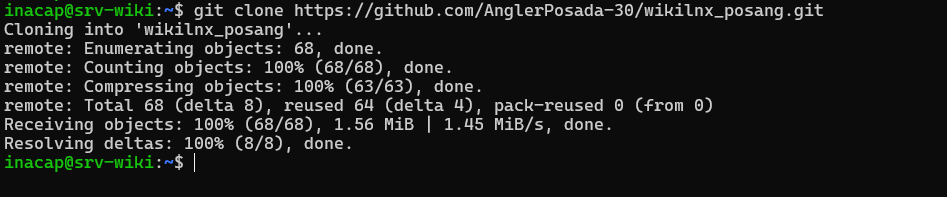
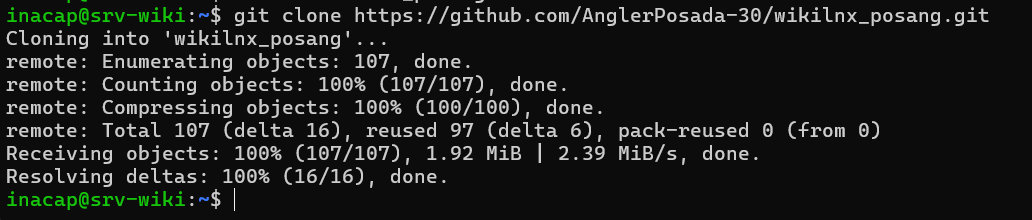
Página de nginx, casi terminada

Changed region(s): [[0.0, 0.0, 0.9799, 0.9442]]

diff --git a/src/App.jsx b/src/App.jsx
@@ -2,11 +2,9 @@ import { useState } from 'react'
 import { Book, Shield, Terminal, Key, Package, Globe, Bot } from 'lucide-react'
 import ReactMarkdown from 'react-markdown'
 
-// Importamos tus archivos Markdown directamente (el sufijo ?raw es esencial en Vite)
-// Asegúrate de que los nombres coincidan exactamente con los de tus archivos reales
-import inicioMd from '../src/docs_posang/01_inicio_posang.md?raw'
-import licenciasMd from '../src/docs_posang/02_licencias_posang.md?raw'
-import instalacionMd from '../src/docs_posang/03_instalacion_posang.md?raw'
+import inicioMd from './docs_posang/01_inicio_posang.md?raw'
+import licenciasMd from './docs_posang/02_licencias_posang.md?raw'
+import instalacionMd from './docs_posang/03_instalacion_posang.md?raw'
 import permisosMd from './docs_posang/04_permisos_posang.md?raw'
 import paquetesMd from './docs_posang/05_paquetes_posang.md?raw'
 import nginxMd from './docs_posang/06_nginx_posang.md?raw'
@@ -58,6 +56,23 @@ function App() {
             </button>
           ))}
         </nav>
+
+        {/* --- BOTÓN DE GITHUB --- */}
+        <div className="p-4 border-t border-slate-800">
+          <a 
+            href="https://github.com/AnglerPosada-30/wikilnx_posang" 
+            target="_blank" 
+            rel="noopener noreferrer"
+            className="w-full flex items-center justify-center space-x-2 bg-slate-800 hover:bg-slate-700 text-slate-300 hover:text-white px-4 py-3 rounded-lg transition-all duration-200 border border-slate-700"
+          >
+            {/* Ícono SVG nativo de GitHub para evitar dependencias */}
+            <svg xmlns="http://www.w3.org/2000/svg" width="18" height="18" viewBox="0 0 24 24" fill="none" stroke="currentColor" strokeWidth="2" strokeLinecap="round" strokeLinejoin="round">
+              <path d="M15 22v-4a4.8 4.8 0 0 0-1-3.02c3.14-.35 6.44-1.54 6.44-7A5.44 5.44 0 0 0 20 4.77 5.07 5.07 0 0 0 19.91 1S18.73.65 16 2.48a13.38 13.38 0 0 0-7 0C6.27.65 5.09 1 5.09 1A5.07 5.07 0 0 0 5 4.77a5.44 5.44 0 0 0-1.5 3.78c0 5.42 3.3 6.61 6.44 7A4.8 4.8 0 0 0 9 18v4"></path>
+              <path d="M9 18c-4.51 2-5-2-7-2"></path>
+            </svg>
+            <span className="font-medium text-sm">Ver Repositorio</span>
+          </a>
+        </div>
       </aside>
 
       {/* --- PANEL PRINCIPAL (VISOR MARKDOWN) --- */}

diff --git a/src/docs_posang/06_nginx_posang.md b/src/docs_posang/06_nginx_posang.md
@@ -18,7 +18,7 @@ Una vez completada la instalación, el servicio se inicia automáticamente. Con 
 
 * **Mi Evidencia:**
 
-![Instalación de Gninx](../img/img_nginx/gninxInstalado.png)
+![Instalación de Gninx](/img/img_nginx/gninxInstalado.png)
 
 
 * **B -> Verificación desde el Navegador**
@@ -29,7 +29,7 @@ Luego abrí el Navegador Web, Brave para ser específicos, y buscamos la URL:
 
 Esto me permitió comprobar que el servidor estaba respondiendo correctamente y que la página por defecto de Nginx se encontraba disponible. En este punto, el servidor ya estaba conectado a la red y listo para recibir la estructura que posteriormente formará nuestra WIKI.
 
-![Web esperando nuestro Sistema Web](../img/img_nginx/gninxWeb.png)
+![Web esperando nuestro Sistema Web](/img/img_nginx/gninxWeb.png)
 
 ---
 
@@ -52,9 +52,9 @@ Este comando instala tres herramientas fundamentales:
 
 *El parámetro -y acepta automáticamente todas las confirmaciones*
 
-![Instalación de nodejs, npm y git](../img/img_nginx/nodeNpmGit.png)
+![Instalación de nodejs, npm y git](/img/img_nginx/nodeNpmGit.png)
 
-![Instalación de nodejs, npm y git](../img/img_nginx/GNG.png)
+![Instalación de nodejs, npm y git](/img/img_nginx/GNG.png)
 
 
 
@@ -66,17 +66,17 @@ Este comando instala tres herramientas fundamentales:
 
 Con este comando descargué mi proyecto directamente desde `GitHub` hacia el servidor. Esto crea una carpeta con todo el código fuente de mi WIKI.
 
-![Proceso de clonación de mi Repositorio](../img/img_nginx/repositorioClonado.png)
+![Proceso de clonación de mi Repositorio](/img/img_nginx/repositorioClonado.png)
 
 3. **Ejecutamos:**
      ```bash
-     cd <mi-carpeta-del-proyecto>
+     cd wikilnx_posang
 
      ```
 
 Aquí simplemente ingresé a la carpeta recién descargada para poder trabajar dentro del proyecto.
 
-![Situandome en la carpeta del proyecto](../img/img_nginx/cdWiki.png)
+![Situandome en la carpeta del proyecto](/img/img_nginx/cdWiki.png)
 
 
 El comando clave aquí es `npm run build`. Este proceso empaqueta todo mi código React y crea una carpeta llamada `dist/`. Esta carpeta contiene la web ya procesada y lista para ser publicada; esto es lo único que Nginx necesita.
@@ -90,8 +90,19 @@ El comando clave aquí es `npm run build`. Este proceso empaqueta todo mi códig
 Este comando descarga e instala todas las dependencias necesarias para que el proyecto funcione: React, Vite, librerías adicionales, etc.
 En otras palabras, reconstruye el entorno de desarrollo dentro del servidor.
 
+![Instalación de dependencias en la carpeta del proyecto](/img/img_nginx/npmInstall.png)
 
 
+5. **ejecutamos:**
+      ```bash
+     npm run build
+     ```
+
+Al ejecutar este comando dentro del proyecto, lo que activó el proceso de compilación con Vite en modo producción. El sistema tomó todos los módulos del proyecto, los optimizó y generó los archivos finales que van dentro de la carpeta dist. Al terminar, Vite me mostró el tamaño real y el tamaño comprimido (gzip) de cada archivo generado, confirmando que la construcción se completó correctamente en menos de cuatro segundos.     
+
+**Evidencia**
+
+![Activación del proceso de compilación con Vite](/img/img_nginx/npmBuild.png)
 ---
 
 ## 3. Alojamiento y Permisos de los Archivos
@@ -105,7 +116,13 @@ Nginx necesita saber de dónde leer los archivos, y por convención, los sitios 
      sudo chown -R www-data:www-data /var/www/wiki
      ```
 
+Lo que hice fue preparar el directorio donde se va a publicar la versión final del sitio y luego copiar los archivos generados por la compilación. Primero, creé la carpeta (/var/www/wiki) usando (sudo mkdir -p), asegurándome de que existiera incluso si faltaban directorios intermedios. Después copié todo el contenido de la carpeta dist hacia esa ubicación, que es donde normalmente se alojan los archivos que servirán al sitio en producción. Finalmente, cambié la propiedad de la carpeta y de todos sus archivos para que el usuario y grupo www-data —que es el que usa el servidor web— tenga control total sobre ellos. Con eso dejé el sitio listo para ser servido por el servidor.
+
 **¿Por qué `chown www-data`?:** Este es un paso crítico de seguridad. `www-data` es el usuario de sistema que Nginx utiliza para ejecutarse. Al transferirle la propiedad de la carpeta `/var/www/wiki/`, le doy a Nginx el permiso exclusivo para leer y servir mis archivos hacia internet, evitando usar al usuario administrador para tareas web.
+
+![Creación de la carpeta /var/www/wiki](/img/img_nginx/preparacionDirectorio.png)
+
+
 
 ---
 
@@ -118,6 +135,9 @@ Luego, tuve que darle a Nginx las instrucciones exactas sobre cómo manejar mi s
      sudo nano /etc/nginx/sites-available/wiki
      ```
 
+Para que Nginx pudiera servir correctamente mi sitio, necesitaba crear su archivo de configuración específico. Para eso abrí un nuevo archivo dentro de la ruta estándar de sitios disponibles usando el comando anterior mencionado. Este archivo es donde definí las reglas que Nginx debe seguir: la ubicación de los archivos del sitio, el comportamiento del servidor, y cualquier ajuste necesario para que la WIKI funcione en producción. Al abrirlo con nano, pude escribir manualmente toda la configuración que permitirá que Nginx reconozca y publique mi proyecto.
+
+
 Dentro de ese archivo, pegué la siguiente configuración:
 
 ```nginx
@@ -129,6 +149,9 @@ server {
 }
 ```
 Esta es la "receta" del sitio. Le dice a Nginx: "Escucha en el puerto 80, tu directorio raíz es `/var/www/wiki`, carga el archivo `index.html`, y si alguien busca una ruta que no existe físicamente, redirígelo al `index.html`" (esto último es vital para que las rutas de React funcionen correctamente sin dar error 404).
+
+![Receta del sitio web para nginx](/img/img_nginx/serverDic.png)
+
 
 ---
 
@@ -145,6 +168,9 @@ Para que la configuración anterior surtiera efecto, tuve que activarla creando 
      ```
 
 El comando `nginx -t` es una excelente herramienta que prueba el archivo de configuración en busca de errores de tipeo (como un punto y coma faltante) antes de reiniciar el servicio, evitando que el servidor web se caiga por un error humano.
+
+![Comando necesarios para cagar la wiki al puerto 8080](/img/img_nginx/sitioDesplegado.png)
+
 
 ---
 